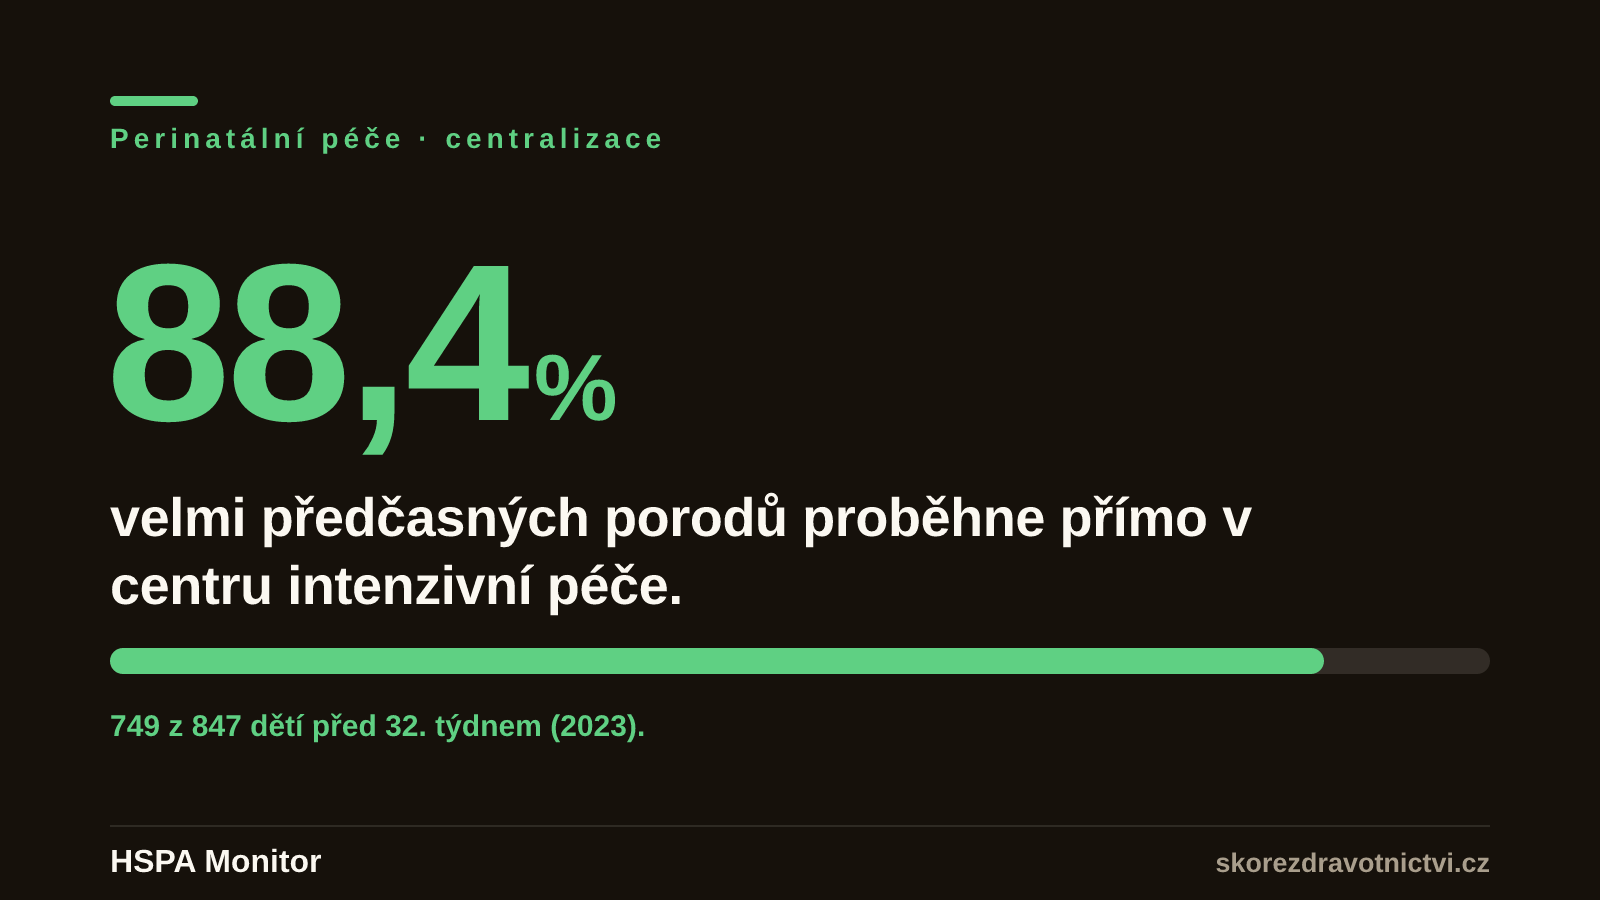
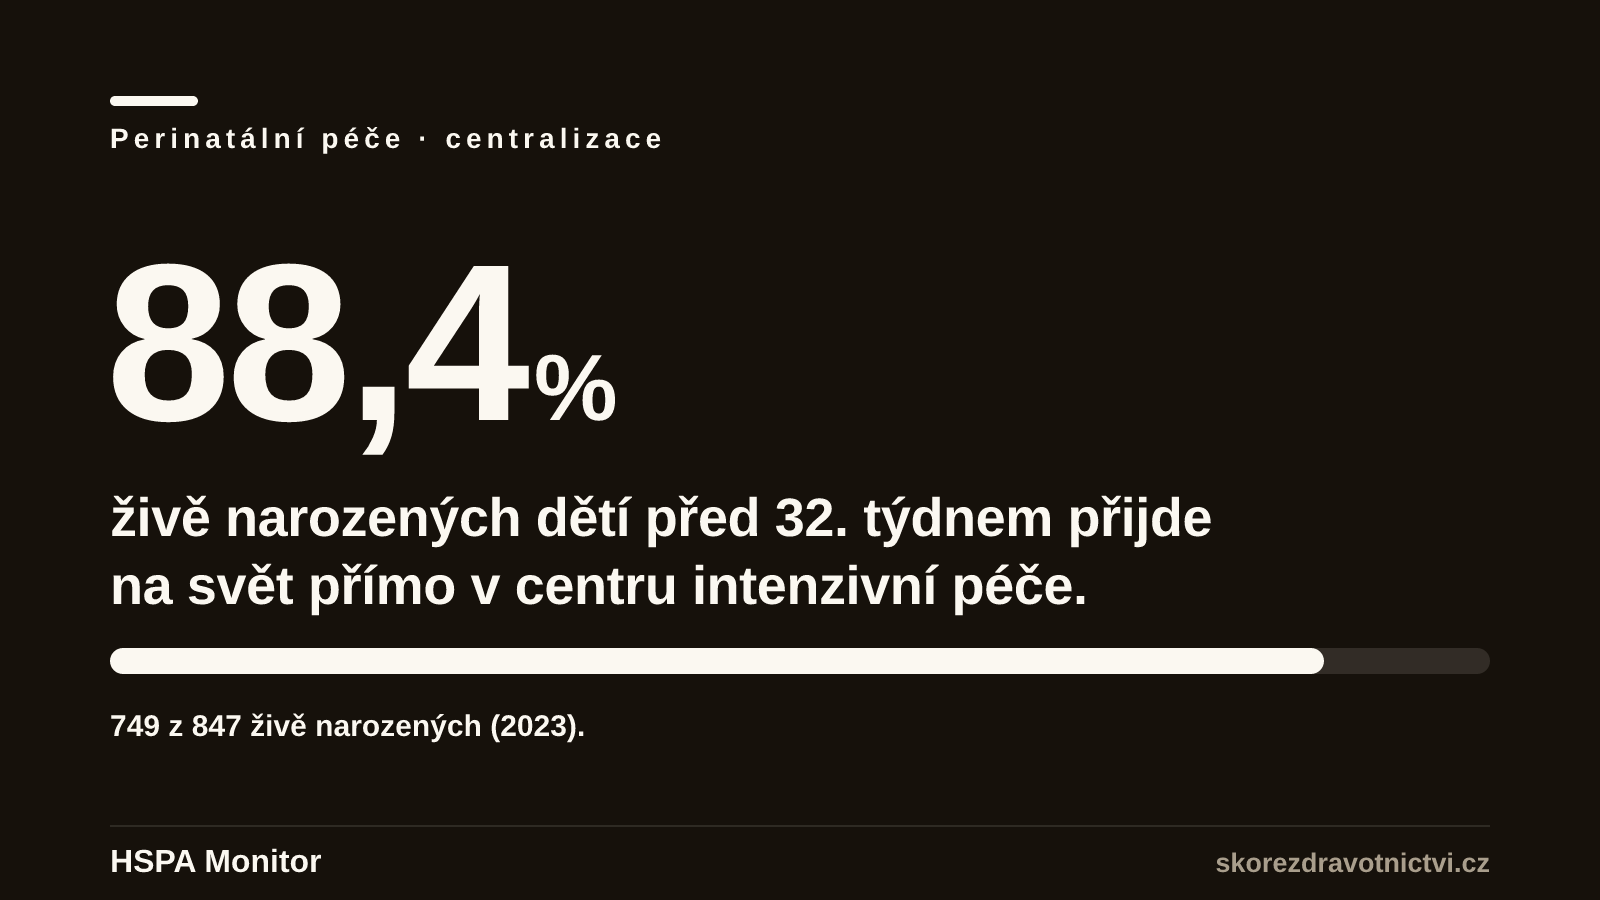
fix(social): karta centralizace — neutral signál a jmenovatel živě narozených
Dvě opravy podle metodické karty
indicators/centralizace_velmi_predcasnych_porodu.json:

1. signal 'good' → 'neutral'. Method_notes výslovně říká, že indikátor
   záměrně nemá číselný benchmark a jeho signál je proto neutral: Euro-Peristat
   R17 počítá živě i mrtvě narozené, česká data existují jen za živě narozené a
   ani jednu stranu nelze přepočítat. Zelené číslo i pruh prezentovaly hodnocení,
   které data neunesou. Datový kontrakt má u indikátoru rovněž signal "neutral".

2. Claim mluvil o „velmi předčasných porodech", jenže 749 z 847 je počet
   živě narozených dětí, ne porodů — to je jiná řada (analytická studie NRRZ
   uvádí na bázi porodů 605 z 681 za rok 2024). Ve stejném gestačním pásmu
   je navíc 147 mrtvě narozených, které jmenovatel nezahrnuje. Claim i
   kontextový řádek teď jmenovatel drží explicitně.

Přegenerovány všechny tři formáty karty. npm test — 1271 testů, 0 failures.

Claude-Session: https://claude.ai/code/session_01Jy4Ny8NeiqszcMYJoc3iRp

diff --git a/05_M1_Starter/scripts/generate-ig-cards.js b/05_M1_Starter/scripts/generate-ig-cards.js
@@ -106,10 +106,14 @@ const MANIFEST = {
     context: 'Nová generace přidala 3. září laborky, prevenci a sdílený záznam.',
   },
   'clanek-centralizace-velmi-predcasnych-porodu': {
-    kicker: 'Perinatální péče · centralizace', signal: 'good',
+    // Signál je záměrně neutral — indikátor nemá srovnatelný benchmark
+    // (Euro-Peristat R17 počítá živě i mrtvě narozené, česká data jen živě
+    // narozené), viz method_notes v indicators/centralizace_velmi_predcasnych_porodu.json.
+    // Ze stejného důvodu drží claim jmenovatel „živě narozené děti", ne porody.
+    kicker: 'Perinatální péče · centralizace', signal: 'neutral',
     stat: '88,4', statSuffix: '%', barPct: 88,
-    claim: 'velmi předčasných porodů proběhne přímo v centru intenzivní péče.',
-    context: '749 z 847 dětí před 32. týdnem (2023).',
+    claim: 'živě narozených dětí před 32. týdnem přijde na svět přímo v centru intenzivní péče.',
+    context: '749 z 847 živě narozených (2023).',
   },
   'clanek-psychiatricka-luzka': {
     kicker: 'Duševní zdraví · lůžkový fond', signal: 'bad',
